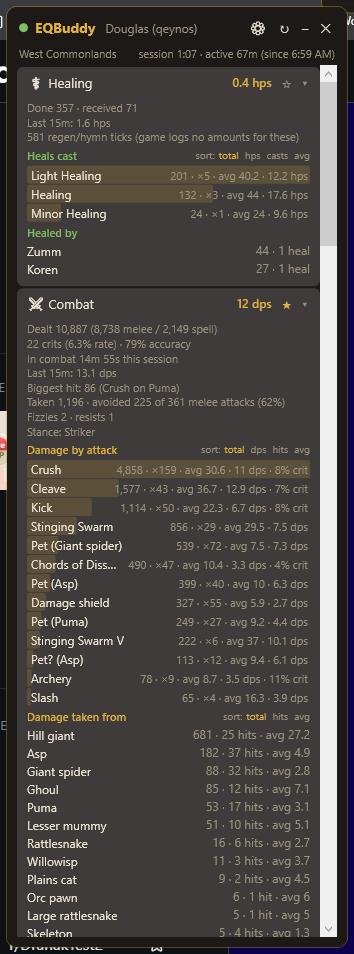
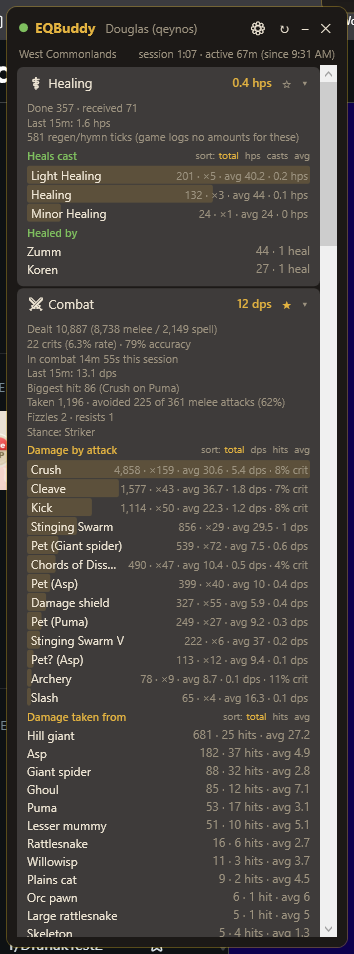
EQBuddy 1.8.9: per-ability DPS uses parser convention (contribution rate)
User feedback: the active-time dps was constant for a single cast no
matter the fight length ("Anarchy says 110 dps whether the fight is
10s or 10 minutes") - not what any parser means by ability DPS.

Per-ability dps/hps is now ability total / total time in combat, so
the column sums to session DPS and an ability's rate falls the longer
you go without using it. The active-time figure remains in the
tooltip, clearly labeled as burst ("X/s over the ~Ns it was in use").
Applied everywhere: live combat + healing breakdowns, history detail
rows, history text summaries, sort-label tooltips, docs.

diff --git a/src/EQBuddy/MainWindow.xaml b/src/EQBuddy/MainWindow.xaml
@@ -133,7 +133,7 @@
                             <TextBlock x:Name="DmgOutSortTotal" Text="total" FontSize="10" Cursor="Hand" Tag="total"
                                        Foreground="{StaticResource AccentBrush}" MouseLeftButtonDown="OnSortDmgOut"/>
                             <TextBlock x:Name="DmgOutSortDps" Text="dps" FontSize="10" Cursor="Hand" Tag="rate" Margin="6,0,0,0"
-                                       ToolTip="Per-ability DPS: damage ÷ the time that ability was in use"
+                                       ToolTip="Per-ability DPS: that ability's damage ÷ total time in combat"
                                        Foreground="{StaticResource DimBrush}" MouseLeftButtonDown="OnSortDmgOut"/>
                             <TextBlock x:Name="DmgOutSortHits" Text="hits" FontSize="10" Cursor="Hand" Tag="hits" Margin="6,0,0,0"
                                        Foreground="{StaticResource DimBrush}" MouseLeftButtonDown="OnSortDmgOut"/>
@@ -188,7 +188,7 @@
                             <TextBlock x:Name="HealSortTotal" Text="total" FontSize="10" Cursor="Hand" Tag="total"
                                        Foreground="{StaticResource AccentBrush}" MouseLeftButtonDown="OnSortHeal"/>
                             <TextBlock x:Name="HealSortHps" Text="hps" FontSize="10" Cursor="Hand" Tag="rate" Margin="6,0,0,0"
-                                       ToolTip="Per-spell HPS: healing ÷ the time that spell was in use"
+                                       ToolTip="Per-spell HPS: that spell's healing ÷ total time in combat"
                                        Foreground="{StaticResource DimBrush}" MouseLeftButtonDown="OnSortHeal"/>
                             <TextBlock x:Name="HealSortHits" Text="casts" FontSize="10" Cursor="Hand" Tag="hits" Margin="6,0,0,0"
                                        Foreground="{StaticResource DimBrush}" MouseLeftButtonDown="OnSortHeal"/>

diff --git a/src/EQBuddy/MainWindow.xaml.cs b/src/EQBuddy/MainWindow.xaml.cs
@@ -369,7 +369,7 @@ public partial class MainWindow : Window
                     : "") +
                 (s.Fizzles + s.Resists > 0 ? $"\nFizzles {s.Fizzles} · resists {s.Resists}" : "") +
                 (s.CurrentStance.Length > 0 ? $"\nStance: {s.CurrentStance}" : "");
-            FillBreakdown(DamageSourceList, s.DamageBySource, _dmgOutSort, "dps");
+            FillBreakdown(DamageSourceList, s.DamageBySource, _dmgOutSort, s.CombatSeconds, "dps");
             FillStatList(DamageTakenList, s.DamageByAttacker, _dmgInSort, "hit");
             RecentFightsLabel.Visibility = s.RecentEncounters.Count > 0 ? Visibility.Visible : Visibility.Collapsed;
             RecentFightsList.Items.Clear();
@@ -401,7 +401,7 @@ public partial class MainWindow : Window
             var showSpells = s.HealsBySpell.Count > 0 ? Visibility.Visible : Visibility.Collapsed;
             HealSpellsLabel.Visibility = showSpells;
             HealSortBar.Visibility = showSpells;
-            FillBreakdown(HealSpellList, s.HealsBySpell, _healSort, "hps");
+            FillBreakdown(HealSpellList, s.HealsBySpell, _healSort, s.CombatSeconds, "hps");
             HealersLabel.Visibility = s.HealsByHealer.Count > 0 ? Visibility.Visible : Visibility.Collapsed;
             FillList(HealerList, s.HealsByHealer.Select(h =>
                 (h.Name, $"{h.Total:N0} · {h.Hits} heal{(h.Hits == 1 ? "" : "s")}")));
@@ -880,14 +880,16 @@ public partial class MainWindow : Window
     }
 
     /// <summary>Details!-style breakdown: proportional bar behind each row with the full
-    /// "total · ×hits · avg · rate (· crit%)" columns inline. The rate (dps/hps) is the
-    /// closest per-ability figure the log allows: total ÷ the ability's own active time
-    /// (Core's AbilityAgg). The bar follows the sorted column.</summary>
+    /// "total · ×hits · avg · rate (· crit%)" columns inline. The rate (dps/hps) uses the
+    /// parser convention: ability damage ÷ total time in combat, so an ability's dps
+    /// falls the longer you go without using it. The burst rate (total ÷ the ability's
+    /// own active time) lives in the tooltip. The bar follows the sorted column.</summary>
     private void FillBreakdown(ItemsControl list, IEnumerable<SourceDamage> stats,
-        StatSort sort, string rateLabel)
+        StatSort sort, double combatSeconds, string rateLabel)
     {
+        var secs = Math.Max(1, combatSeconds);
+        double Rate(SourceDamage d) => d.Total / secs;
         static double Avg(SourceDamage d) => (double)d.Total / Math.Max(1, d.Hits);
-        static double Rate(SourceDamage d) => d.Total / Math.Max(1, d.ActiveSeconds);
         var sorted = (sort switch
         {
             StatSort.Hits => stats.OrderByDescending(d => d.Hits),
@@ -911,10 +913,11 @@ public partial class MainWindow : Window
         foreach (var d in sorted)
         {
             var critPart = d.Crits > 0 ? $" · {100.0 * d.Crits / Math.Max(1, d.Hits):0}% crit" : "";
-            var ratePart = d.ActiveSeconds > 0 ? $" · {Rate(d):0.#} {rateLabel}" : "";
-            var value = $"{d.Total:N0} · ×{d.Hits} · avg {Avg(d):0.#}{ratePart}{critPart}";
-            var tooltip = $"{100.0 * d.Total / grand:0.#}% of total" +
-                (d.ActiveSeconds > 0 ? $" · {rateLabel} = total ÷ ~{d.ActiveSeconds:0}s this ability was in use" : "");
+            var value = $"{d.Total:N0} · ×{d.Hits} · avg {Avg(d):0.#} · {Rate(d):0.#} {rateLabel}{critPart}";
+            var tooltip = $"{100.0 * d.Total / grand:0.#}% of total · {rateLabel} = total ÷ {secs:0}s in combat" +
+                (d.ActiveSeconds > 0
+                    ? $" · burst {d.Total / Math.Max(1, d.ActiveSeconds):0.#}/s over the ~{d.ActiveSeconds:0}s it was in use"
+                    : "");
             list.Items.Add(BreakdownRows.Row(this, d.Name, value, metric(d) / topMetric, barBrush, tooltip));
         }
     }

diff --git a/src/EQBuddy/BreakdownRows.cs b/src/EQBuddy/BreakdownRows.cs
@@ -50,24 +50,27 @@ internal static class BreakdownRows
     }
 
     /// <summary>Fill an ItemsControl with ability rows (ordered by total): the standard
-    /// "total · ×hits · avg · rate (· crit%)" columns with share bars.</summary>
+    /// "total · ×hits · avg · rate (· crit%)" columns with share bars. Rate uses the
+    /// parser convention (ability total ÷ time in combat); burst is in the tooltip.</summary>
     public static void FillAbilityRows(FrameworkElement resources, ItemsControl list,
-        IReadOnlyList<SourceDamage> stats, string unit, string rateLabel, int max = int.MaxValue)
+        IReadOnlyList<SourceDamage> stats, double combatSeconds, string rateLabel,
+        int max = int.MaxValue)
     {
         list.Items.Clear();
         if (stats.Count == 0) return;
         var grand = Math.Max(1, stats.Sum(d => d.Total));
         var top = Math.Max(1, stats.Max(d => d.Total));
+        var secs = Math.Max(1, combatSeconds);
         var barBrush = BarBrush(resources);
         foreach (var d in stats.Take(max))
         {
             var critPart = d.Crits > 0 ? $" · {100.0 * d.Crits / Math.Max(1, d.Hits):0}% crit" : "";
-            var ratePart = d.ActiveSeconds > 0
-                ? $" · {d.Total / Math.Max(1, d.ActiveSeconds):0.#} {rateLabel}" : "";
-            var value = $"{d.Total:N0} · ×{d.Hits} · avg {(double)d.Total / Math.Max(1, d.Hits):0.#}{ratePart}{critPart}";
-            var tooltip = $"{100.0 * d.Total / grand:0.#}% of total" +
+            var value = $"{d.Total:N0} · ×{d.Hits} · avg {(double)d.Total / Math.Max(1, d.Hits):0.#}" +
+                        $" · {d.Total / secs:0.#} {rateLabel}{critPart}";
+            var tooltip = $"{100.0 * d.Total / grand:0.#}% of total · {rateLabel} = total ÷ {secs:0}s in combat" +
                 (d.ActiveSeconds > 0
-                    ? $" · {rateLabel} = total ÷ ~{d.ActiveSeconds:0}s this {unit} was in use" : "");
+                    ? $" · burst {d.Total / Math.Max(1, d.ActiveSeconds):0.#}/s over the ~{d.ActiveSeconds:0}s it was in use"
+                    : "");
             list.Items.Add(Row(resources, d.Name, value, (double)d.Total / top, barBrush, tooltip));
         }
     }

diff --git a/src/EQBuddy/HistoryWindow.xaml.cs b/src/EQBuddy/HistoryWindow.xaml.cs
@@ -101,9 +101,9 @@ public partial class HistoryWindow : Window
     private void ShowSession(SessionRow r, StatsSnapshot s)
     {
         DetailText.Text = BuildHeaderText(r, s).TrimEnd();
-        BreakdownRows.FillAbilityRows(this, DamageVisualList, s.DamageBySource, "ability", "dps", max: 10);
+        BreakdownRows.FillAbilityRows(this, DamageVisualList, s.DamageBySource, s.CombatSeconds, "dps", max: 10);
         DamageVisualLabel.Visibility = s.DamageBySource.Count > 0 ? Visibility.Visible : Visibility.Collapsed;
-        BreakdownRows.FillAbilityRows(this, HealVisualList, s.HealsBySpell, "spell", "hps", max: 6);
+        BreakdownRows.FillAbilityRows(this, HealVisualList, s.HealsBySpell, s.CombatSeconds, "hps", max: 6);
         HealVisualLabel.Visibility = s.HealsBySpell.Count > 0 ? Visibility.Visible : Visibility.Collapsed;
         var rest = BuildRestText(s).Trim();
         DetailRest.Text = rest;
@@ -147,7 +147,7 @@ public partial class HistoryWindow : Window
             foreach (var d in s.DamageBySource.Take(8))
                 sb.AppendLine($"  {d.Name,-24} {ShareBar((double)d.Total / top),-10} {d.Total,8:N0}" +
                     $" · {100.0 * d.Total / grand,3:0}% · {d.Hits} hits · avg {(double)d.Total / d.Hits:0.#}" +
-                    (d.ActiveSeconds > 0 ? $" · {d.Total / d.ActiveSeconds:0.#} dps" : "") +
+                    $" · {d.Total / Math.Max(1, s.CombatSeconds):0.#} dps" +
                     (d.Crits > 0 ? $" · {100.0 * d.Crits / Math.Max(1, d.Hits):0}% crit" : ""));
             sb.AppendLine();
         }
@@ -160,7 +160,7 @@ public partial class HistoryWindow : Window
                 sb.AppendLine($"  {h.Name,-24} {ShareBar((double)h.Total / hTop),-10} {h.Total,8:N0}" +
                     $" · {100.0 * h.Total / hGrand,3:0}% · {h.Hits} cast{(h.Hits == 1 ? "" : "s")}" +
                     $" · avg {(double)h.Total / Math.Max(1, h.Hits):0.#}" +
-                    (h.ActiveSeconds > 0 ? $" · {h.Total / h.ActiveSeconds:0.#} hps" : ""));
+                    $" · {h.Total / Math.Max(1, s.CombatSeconds):0.#} hps");
             sb.AppendLine();
         }
         return sb.ToString();

diff --git a/docs/FeatureGuide.md b/docs/FeatureGuide.md
@@ -41,12 +41,13 @@ Header: session DPS (+ live fight DPS while fighting). Details:
   time-in-combat, recent-window DPS ("Last 15m"), biggest hit, damage taken +
   avoidance %, fizzles/resists, current stance.
 - **Damage by attack** — Details!-style breakdown: each source shows
-  `total · ×hits · avg · dps (· crit%)`. The dps is per-ability: damage ÷ the time
-  that ability was in use (consecutive hits within 10 s accumulate their real
-  spacing; an isolated hit counts ~2.5 s) — the closest the log allows, since it has
-  no cast-time data. Sort bar: total/dps/hits/avg — the bar behind each row is
-  proportional to whichever column is sorted. Tooltip: share of total + the active
-  time behind the dps figure.
+  `total · ×hits · avg · dps (· crit%)`. The dps follows parser convention:
+  **that ability's damage ÷ total time in combat** — its contribution rate, which
+  falls the longer you go without using it. The tooltip adds share-of-total and the
+  **burst rate** (damage ÷ the ability's own active time: consecutive hits within
+  10 s accumulate real spacing, an isolated hit counts ~2.5 s). Sort bar:
+  total/dps/hits/avg — the bar behind each row is proportional to whichever column
+  is sorted.
   Pet damage appears as "Pet (Name)" — provisional charm pets as "Pet? (Name)" until a
   "Master" tell confirms them. Pets show no crit % (the log doesn't annotate pet crits).
 - **Damage taken from** per attacker (total · hits · avg).
@@ -65,9 +66,9 @@ slain X!"` in the same second.
 ### Healing card
 HPS (healing ÷ combat time), healing done/received, heals cast per spell with the
 same breakdown as Combat: `total · ×casts · avg · hps` per row, sortable by
-total/hps/casts/avg with the bar following the sort; per-spell hps = healing ÷ that
-spell's active casting time. Who healed you, regen/hymn tick counts (no amounts —
-the log gives none).
+total/hps/casts/avg with the bar following the sort; per-spell hps = that spell's
+healing ÷ total time in combat (burst rate in the tooltip). Who healed you,
+regen/hymn tick counts (no amounts — the log gives none).
 
 ### Kills card
 Header: your kills (+ group kills). Details: per-creature counts, kills/hour +

diff --git a/README.md b/README.md
@@ -144,7 +144,7 @@ Session DPS = your damage ÷ time actually **in combat**, so downtime never dilu
 
 | Section | Summary stat | Click-in details |
 |---|---|---|
-| Combat | Session DPS (+ live fight DPS) | Details!-style damage breakdown per attack/spell/song — every row shows total, hits, average, **per-ability DPS** (damage ÷ the time that ability was in use), and crit rate; sortable by total/dps/hits/avg with the bar following the sorted column; accuracy, melee avoidance %, biggest hit, time in combat, damage taken per mob, recent fights with DPS bars, fizzles/resists |
+| Combat | Session DPS (+ live fight DPS) | Details!-style damage breakdown per attack/spell/song — every row shows total, hits, average, **per-ability DPS** (that ability's damage ÷ time in combat — its contribution rate; burst rate in the tooltip), and crit rate; sortable by total/dps/hits/avg with the bar following the sorted column; accuracy, melee avoidance %, biggest hit, time in combat, damage taken per mob, recent fights with DPS bars, fizzles/resists |
 | Healing | HPS (healing ÷ time in combat) | Healing done and received, heals cast per spell with the same breakdown as Combat (total, casts, average, **per-spell HPS**; sortable by total/hps/casts/avg with matching bars), who healed you, hymn/regen tick counts (the log gives no amounts for those) |
 | Kills | Your kills incl. pet (+ group kills) | Count per creature type, kills/hour, group-member kill counts; per-creature farming: avg fight length, coin, XP, and observed drops with your personal rate (e.g. `×2 · 22%`) |
 | Loot | Items looted (+ items made) | Every item with counts, items created by merging |